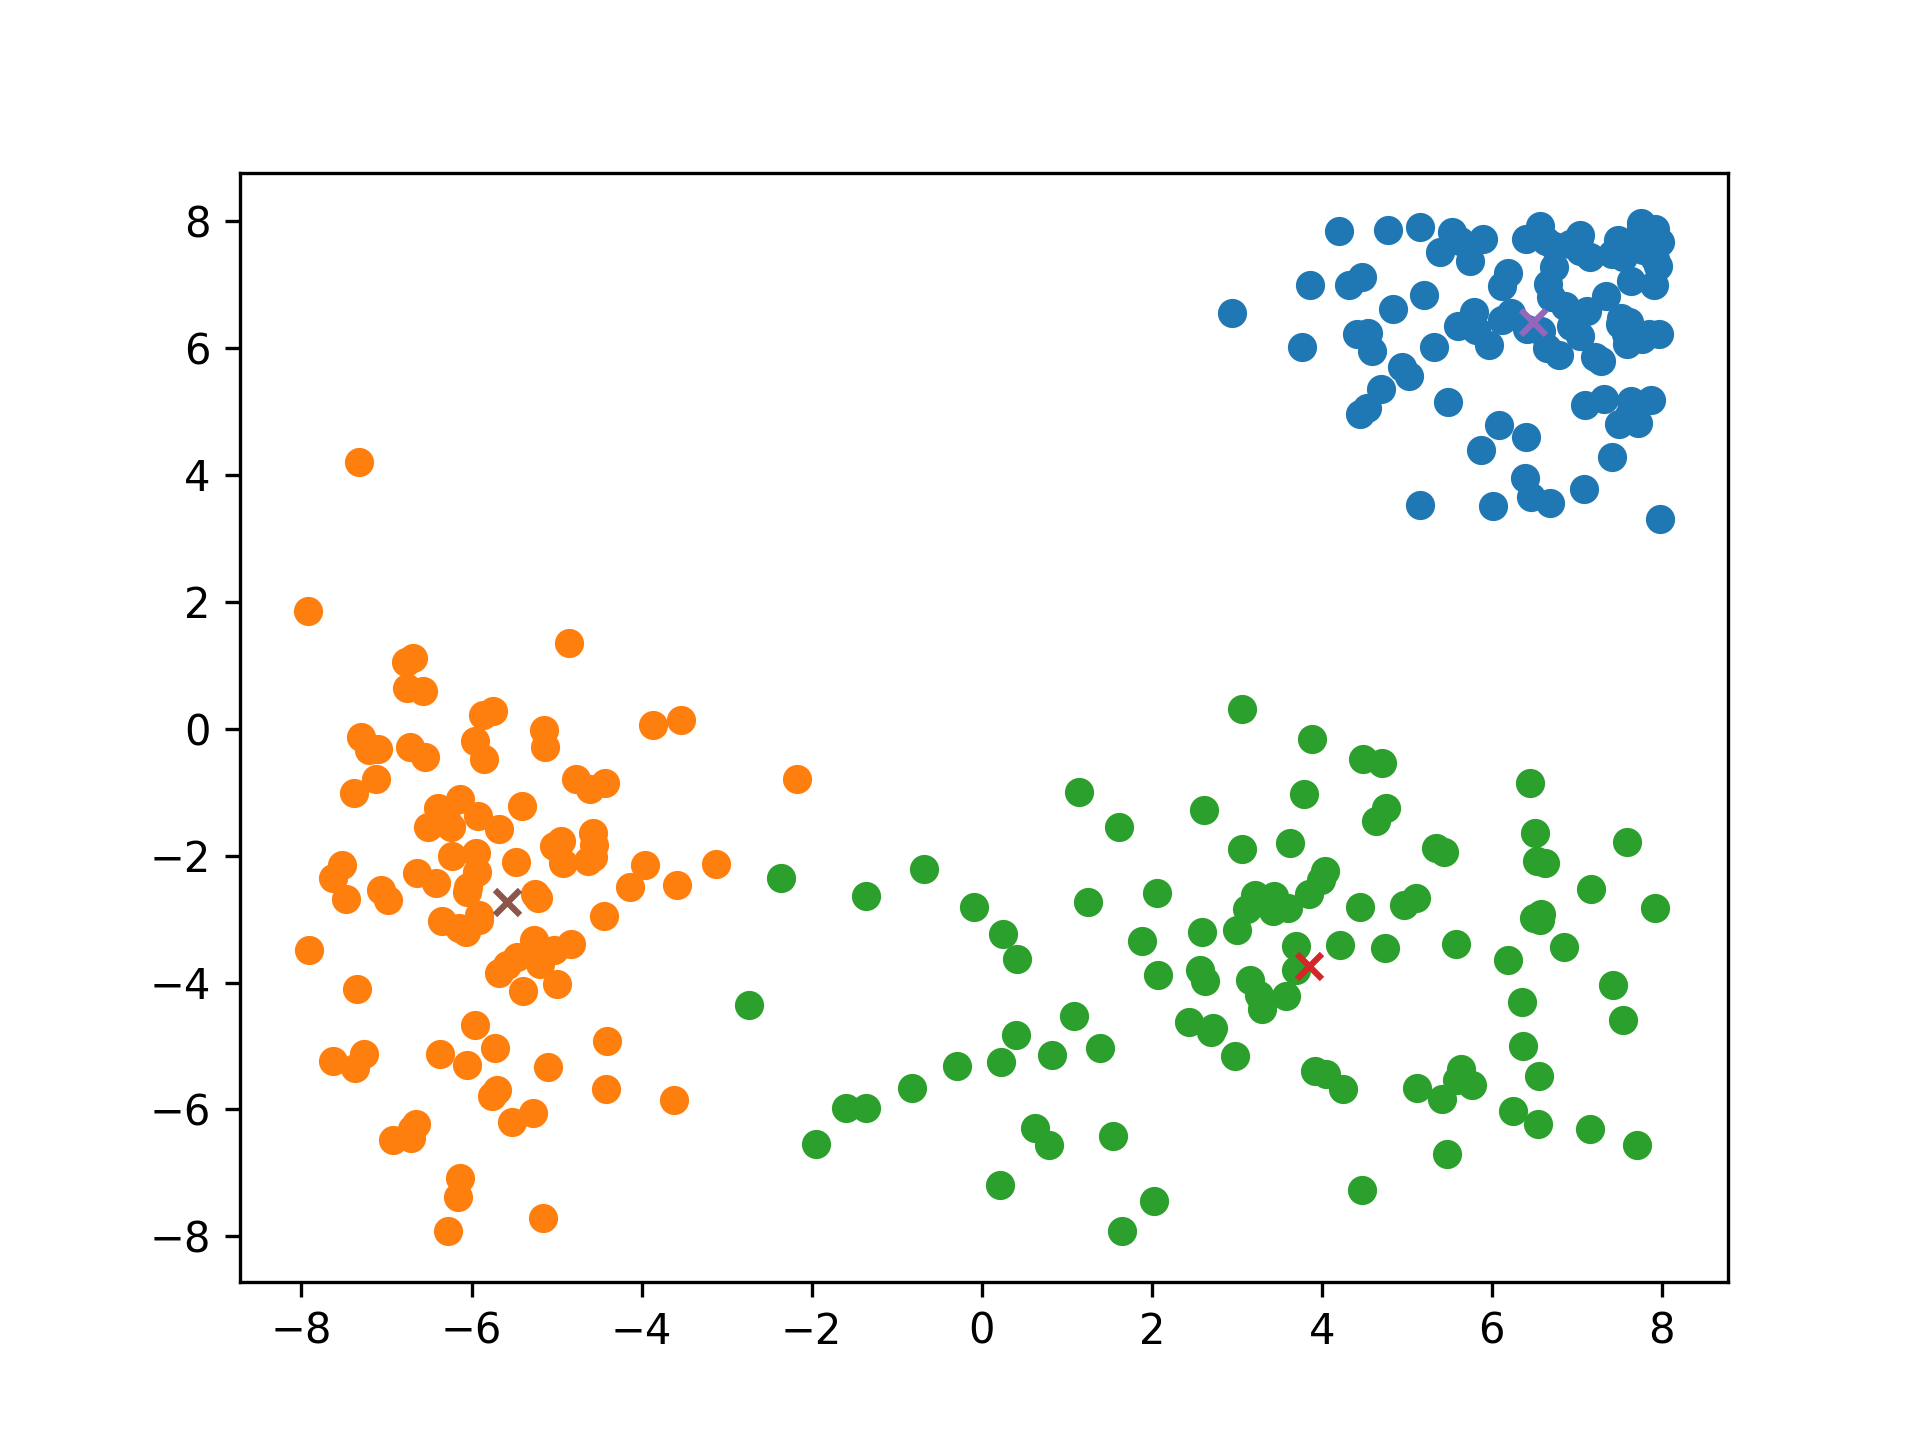
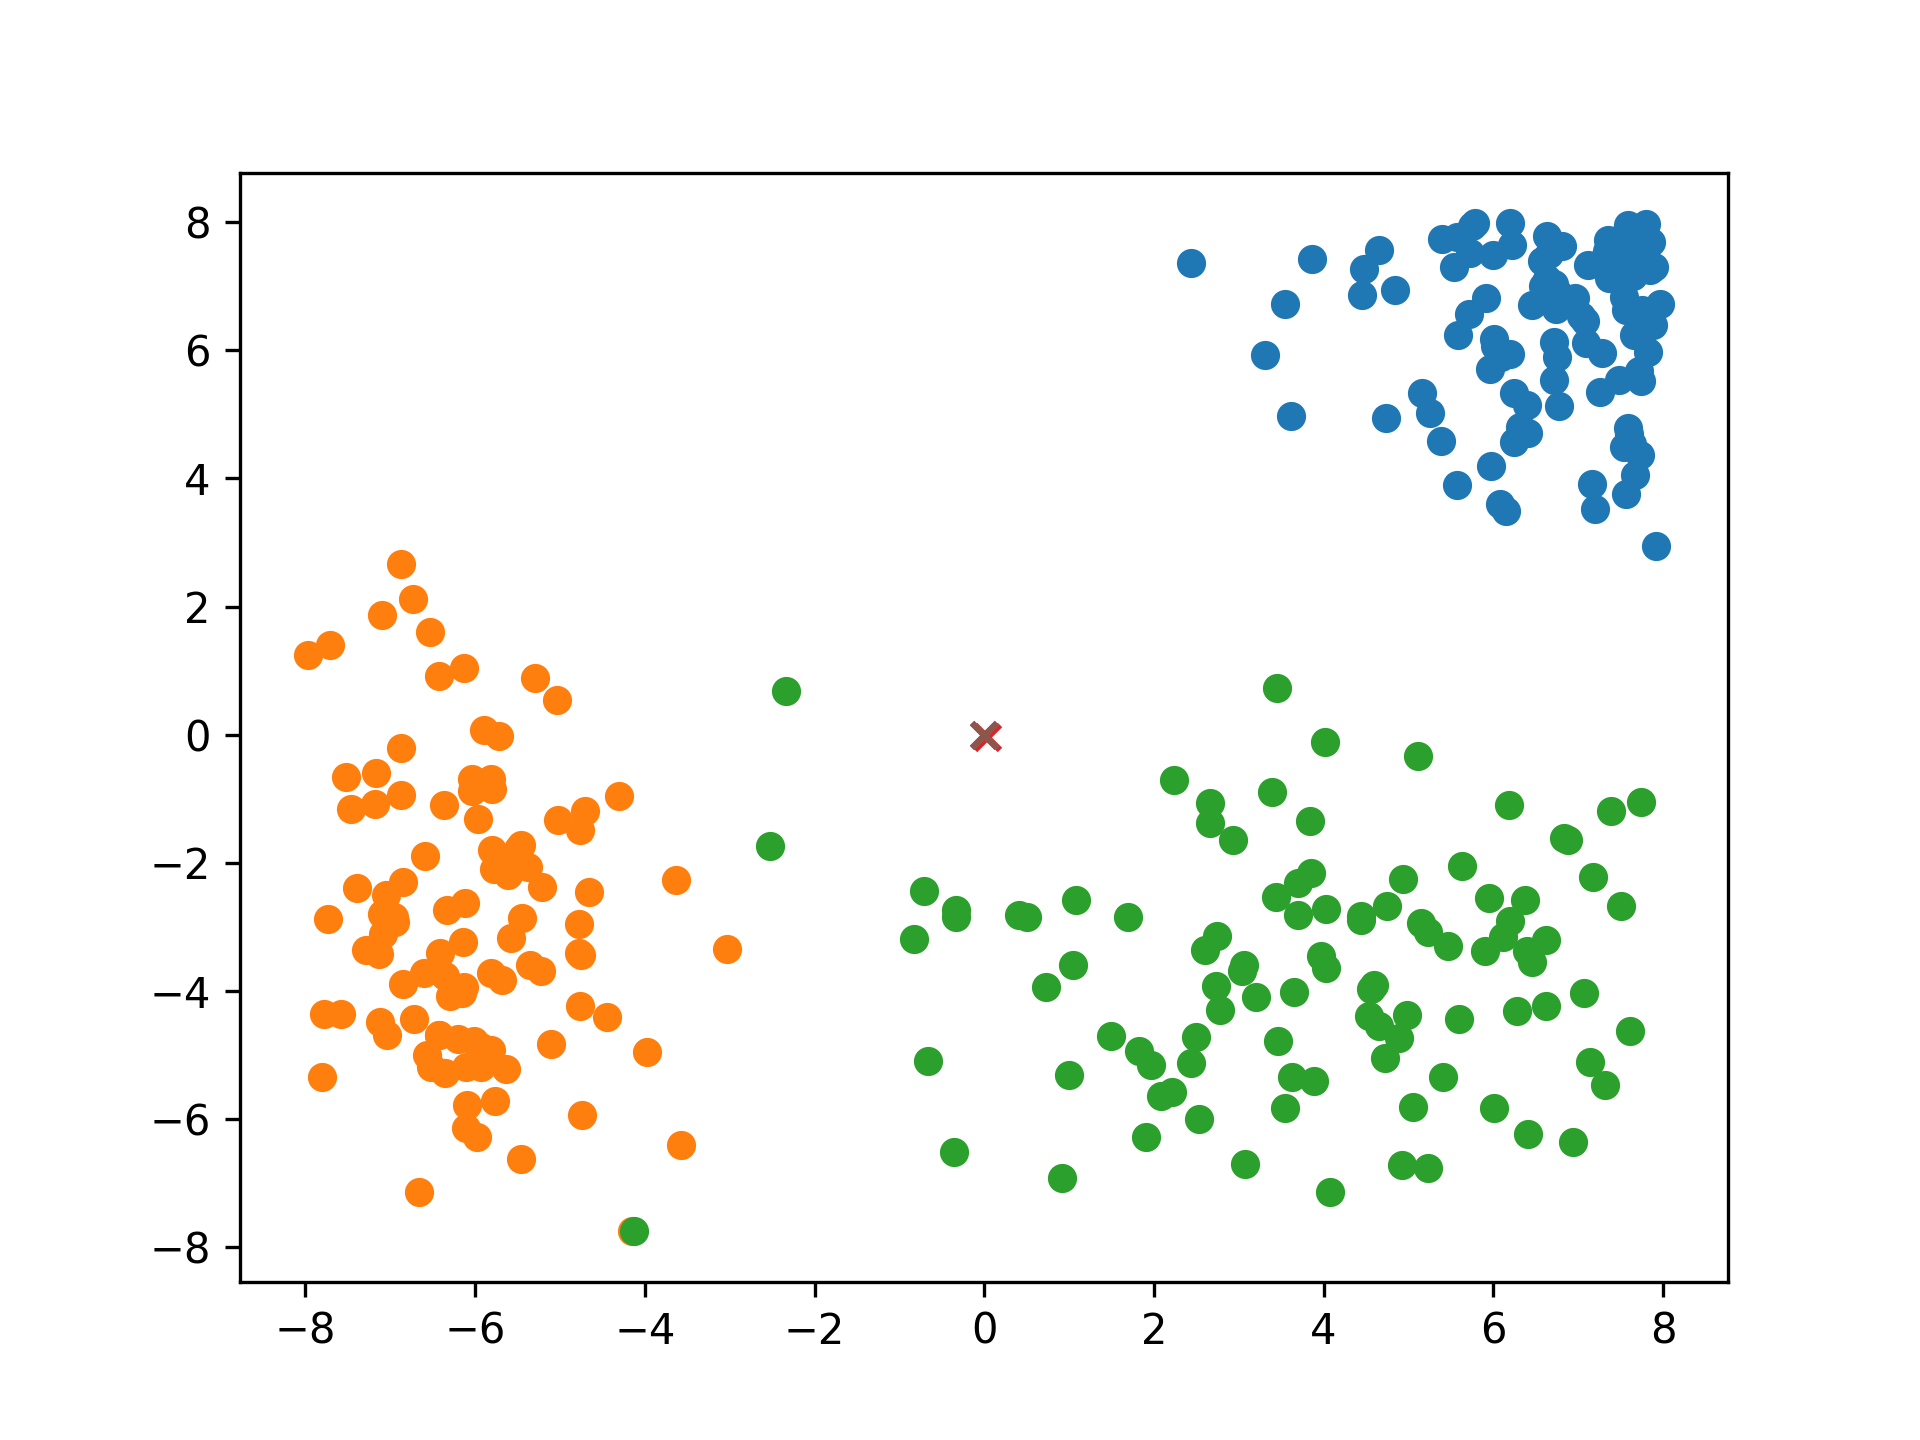
Check in.

diff --git a/exercise.06/main.py b/exercise.06/main.py
@@ -5,8 +5,12 @@ import numpy as np
 import matplotlib.pyplot as plt
 
 
-def normal_distribution(x: float, mean: float, variance: float) -> float:
-    pi_part = 1 / (variance * math.sqrt(2 * math.pi))
+# https://www.youtube.com/watch?v=qMTuMa86NzU
+
+def normal_distribution(x: float, pi: float, mean: float, variance: float) -> float:
+    # pi_part = 1 / (variance * math.sqrt(2 * math.pi))
+    # pi_part = 1
+    pi_part = pi
     exponent = -0.5 * ((x - mean) / variance) ** 2
 
     return pi_part * math.exp(exponent)
@@ -17,7 +21,7 @@ def generate_distribution(width: float, mean: float, variance: float) -> List[fl
 
     while len(points) < 100:
         x = random.uniform(-width, width)
-        prop = normal_distribution(x, mean, variance)
+        prop = normal_distribution(x, 1, mean, variance)
 
         if random.random() < prop:
             points.append(x)
@@ -79,6 +83,91 @@ def k_mean(k: int, training_data: List[Tuple[float, float, int]]) -> List[Tuple[
     return centroids
 
 
+def em(k: int, training_data: List[Tuple[float, float, int]]) -> List[Tuple[float, float]]:
+    mean_c = []
+    sig_c = []
+    pi_c = []
+
+    for _ in range(k):
+        mean_x = random.uniform(-10, 10)
+        mean_y = random.uniform(-10, 10)
+        mean_c.append((mean_x, mean_y))
+
+        sig_x = random.uniform(0.1, 5)
+        sig_y = random.uniform(0.1, 5)
+        sig_c.append((sig_x, sig_y))
+
+        pi_c.append((1, 1))
+
+    probs_ic = []
+
+    for i in range(len(training_data)):
+        x = training_data[i]
+        probs_ic.append([])
+
+        for c in range(k):
+            prob_x = normal_distribution(x[0], pi_c[c][0], mean_c[c][0], sig_c[c][0])
+            prob_y = normal_distribution(x[1], pi_c[c][1], mean_c[c][1], sig_c[c][1])
+            probs_ic[i].append((prob_x, prob_y))
+
+    r_ic = [[] for _ in range(len(training_data))]
+
+    for i in range(len(probs_ic)):
+
+        probs = probs_ic[i]
+
+        sum_x = 0.0
+        sum_y = 0.0
+
+        for prob in probs:
+            print("prob", prob)
+
+            sum_x += prob[0]
+            sum_y += prob[1]
+
+        for c in range(k):
+            x_prob = probs[c][0] / sum_x
+            y_prob = probs[c][1] / sum_y
+            # r_ic[i].append((x_prob, y_prob))
+
+            probability = (x_prob + y_prob) / 2
+            # print("probability", probability)
+            r_ic[i].append(probability)
+
+    mc = [[0.0, 0.0] for _ in range(k)]
+    m = [0.0, 0.0]
+
+    for c in range(k):
+
+        for i in range(len(training_data)):
+            mc[c][0] += r_ic[i][c]
+            mc[c][1] += r_ic[i][c]
+            m[0] += r_ic[i][c]
+            m[1] += r_ic[i][c]
+
+    max_pi_c = []
+
+    for c in range(k):
+        max_pi_c.append((mc[c][0] / m[0], mc[c][1] / m[1]))
+
+    print("max_pi_c", max_pi_c)
+
+    max_mean_c = [[0.0, 0.0] for _ in range(k)]
+
+    for c in range(k):
+        for i in range(len(training_data)):
+            x = training_data[i]
+            max_mean_c[c][0] = r_ic[i][c] * x[0]
+            max_mean_c[c][1] = r_ic[i][c] * x[1]
+
+        max_mean_c[c][0] *= (1 / mc[c][0])
+        max_mean_c[c][1] *= (1 / mc[c][1])
+
+    print(max_mean_c)
+
+    return max_mean_c
+
+
 random.seed(19980528)
 x_points_1, y_points_1 = generate_distribution_points((8, 8), (1.9, 1.9))
 x_points_2, y_points_2 = generate_distribution_points((-6, -3), (1.4, 2.4))
@@ -101,9 +190,11 @@ for inx, iny in zip(x_points_2, y_points_2):
 for inx, iny in zip(x_points_3, y_points_3):
     training_data.append((inx, iny, 2))
 
-centroids = k_mean(3, training_data)
+# centroids = k_mean(3, training_data)
+centroids = em(3, training_data)
 
 for centroid in centroids:
     plt.scatter(centroid[0], centroid[1], marker="x")
 
 plt.savefig("ml.exercise.06.01.png", dpi=300)
+
